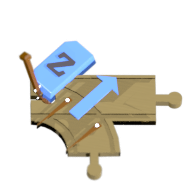
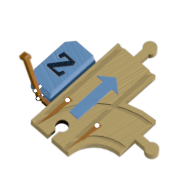
zzz

Changed region(s): [[0.163, 0.2174, 1.0, 0.9783], [0.5163, 0.6793, 0.5435, 0.7065], [0.3533, 0.5435, 0.3804, 0.5707]]

diff --git a/www/js/train.js b/www/js/train.js
@@ -1882,6 +1882,10 @@ $(document).ready(function(){
 		//console.log("drawSprite="+name); //kkk
         var cargoOffsetX = -37;
         var cargoOffsetY = -26;
+        var stationOffsetX = -53;
+        var stationOffsetY = -31;
+        var wyeOffsetX = -69;
+        var wyeOffsetY = -43;
 		switch (name) {
 			case "Captionblocks":
                 ctx.drawImage(imgCargoBlocks[2][12], cargoOffsetX, cargoOffsetY,imgTrackWidth*0.8,imgTrackWidth*0.8);
@@ -1932,73 +1936,73 @@ $(document).ready(function(){
 				ctx.drawImage(imgCargoBinary[value][5], cargoOffsetX, cargoOffsetY,imgTrackWidth*0.8,imgTrackWidth*0.8);
 				break;
 			case "Captionnone":
-				ctx.drawImage(imgCaptionNone, 0, -11,imgTrackWidth*0.8,imgTrackWidth*0.8);
+				ctx.drawImage(imgCaptionNone, stationOffsetX+37, stationOffsetY+9,imgTrackWidth*0.45,imgTrackWidth*0.45);
 				break;
 			case "Captionalternate":
-				ctx.drawImage(imgCaptionAlternate, 0, -11,imgTrackWidth*0.8,imgTrackWidth*0.8);
+				ctx.drawImage(imgCaptionAlternate, wyeOffsetX, wyeOffsetY,imgTrackWidth,imgTrackWidth);
 				break;
 			case "Captionrandom":
-				ctx.drawImage(imgCaptionRandom, 0, -11,imgTrackWidth*0.8,imgTrackWidth*0.8);
+				ctx.drawImage(imgCaptionRandom, wyeOffsetX, wyeOffsetY,imgTrackWidth,imgTrackWidth);
 				break;
 			case "Captioncomparegreater":
-				ctx.drawImage(imgCaptionGreater, 0, -11,imgTrackWidth*0.8,imgTrackWidth*0.8);
+				ctx.drawImage(imgCaptionGreater, wyeOffsetX, wyeOffsetY,imgTrackWidth,imgTrackWidth);
 				break;
 			case "Captionlazy":
-				ctx.drawImage(imgCaptionLazy, 0, -11,imgTrackWidth*0.8,imgTrackWidth*0.8);
+				ctx.drawImage(imgCaptionLazy, wyeOffsetX, wyeOffsetY,imgTrackWidth,imgTrackWidth);
 				break;
 			case "Captioncompareless":
-				ctx.drawImage(imgCaptionLesser, 0, -11,imgTrackWidth*0.8,imgTrackWidth*0.8);
+				ctx.drawImage(imgCaptionLesser, wyeOffsetX, wyeOffsetY,imgTrackWidth,imgTrackWidth);
 				break;
 			case "Captionprompt":
-				ctx.drawImage(imgCaptionPrompt, 0, -11,imgTrackWidth*0.8,imgTrackWidth*0.8);
+				ctx.drawImage(imgCaptionPrompt, wyeOffsetX, wyeOffsetY,imgTrackWidth,imgTrackWidth);
 				break;
 			case "Captionsprung":
-				ctx.drawImage(imgCaptionSprung, 0, -11,imgTrackWidth*0.8,imgTrackWidth*0.8);
+				ctx.drawImage(imgCaptionSprung, wyeOffsetX, wyeOffsetY,imgTrackWidth,imgTrackWidth);
 				break;
 			case "Captionadd":
-				ctx.drawImage(imgCaptionAdd, 0, -11,imgTrackWidth*0.8,imgTrackWidth*0.8);
+				ctx.drawImage(imgCaptionAdd, stationOffsetX, stationOffsetY,imgTrackWidth*0.8,imgTrackWidth*0.8);
 				break;
 			case "Captioncatapult":
-				ctx.drawImage(imgCaptionCatapult, 0, -11,imgTrackWidth*0.8,imgTrackWidth*0.8);
+				ctx.drawImage(imgCaptionCatapult, stationOffsetX, stationOffsetY,imgTrackWidth*0.8,imgTrackWidth*0.8);
 				break;
 			case "Captiondecrement":
-				ctx.drawImage(imgCaptionDecrement, 0, -11,imgTrackWidth*0.8,imgTrackWidth*0.8);
+				ctx.drawImage(imgCaptionDecrement, stationOffsetX, stationOffsetY,imgTrackWidth*0.8,imgTrackWidth*0.8);
 				break;
 			case "Captiondivide":
-				ctx.drawImage(imgCaptionDivide, 0, -11,imgTrackWidth*0.8,imgTrackWidth*0.8);
+				ctx.drawImage(imgCaptionDivide, stationOffsetX, stationOffsetY,imgTrackWidth*0.8,imgTrackWidth*0.8);
 				break;
 			case "Captiondump":
-				ctx.drawImage(imgCaptionDump, 0, -11,imgTrackWidth*0.8,imgTrackWidth*0.8);
+				ctx.drawImage(imgCaptionDump, stationOffsetX, stationOffsetY,imgTrackWidth*0.8,imgTrackWidth*0.8);
 				break;
 			case "Captionincrement":
-				ctx.drawImage(imgCaptionIncrement, 0, -11,imgTrackWidth*0.8,imgTrackWidth*0.8);
+				ctx.drawImage(imgCaptionIncrement, stationOffsetX, stationOffsetY,imgTrackWidth*0.8,imgTrackWidth*0.8);
 				break;
 			case "Captionmultiply":
-				ctx.drawImage(imgCaptionMultiply, 0, -11,imgTrackWidth*0.8,imgTrackWidth*0.8);
+				ctx.drawImage(imgCaptionMultiply, stationOffsetX, stationOffsetY,imgTrackWidth*0.8,imgTrackWidth*0.8);
 				break;
 			case "Captionhome":
-				ctx.drawImage(imgCaptionHome, 0, -11,imgTrackWidth*0.8,imgTrackWidth*0.8);
+				ctx.drawImage(imgCaptionHome, stationOffsetX, stationOffsetY,imgTrackWidth*0.8,imgTrackWidth*0.8);
 				break;
 			case "Captionredtunnel":
-				ctx.drawImage(imgCaptionRedTunnel, -4, -5,imgTrackWidth*0.8,imgTrackWidth*0.8);
+				ctx.drawImage(imgCaptionRedTunnel, stationOffsetX+31, stationOffsetY+18,imgTrackWidth*0.45,imgTrackWidth*0.45);
 				break;
 			case "Captiongreentunnel":
-				ctx.drawImage(imgCaptionGreenTunnel, -4, -4,imgTrackWidth*0.8,imgTrackWidth*0.8);
+				ctx.drawImage(imgCaptionGreenTunnel, stationOffsetX+31, stationOffsetY+18,imgTrackWidth*0.45,imgTrackWidth*0.45);
 				break;
 			case "Captionbluetunnel":
-				ctx.drawImage(imgCaptionBlueTunnel, -4, -5,imgTrackWidth*0.8,imgTrackWidth*0.8);
+				ctx.drawImage(imgCaptionBlueTunnel, stationOffsetX+31, stationOffsetY+18,imgTrackWidth*0.45,imgTrackWidth*0.45);
 				break;
 			case "Captionpickdrop":
-				ctx.drawImage(imgCaptionPickDrop, 0, -11,imgTrackWidth*0.8,imgTrackWidth*0.8);
+				ctx.drawImage(imgCaptionPickDrop, stationOffsetX, stationOffsetY,imgTrackWidth*0.8,imgTrackWidth*0.8);
 				break;
 			case "Captionslingshot":
-				ctx.drawImage(imgCaptionSlingshot, 0, -11,imgTrackWidth*0.8,imgTrackWidth*0.8);
+				ctx.drawImage(imgCaptionSlingshot, stationOffsetX, stationOffsetY,imgTrackWidth*0.8,imgTrackWidth*0.8);
 				break;
 			case "Captionsubtract":
-				ctx.drawImage(imgCaptionSubtract, 0, -11,imgTrackWidth*0.8,imgTrackWidth*0.8);
+				ctx.drawImage(imgCaptionSubtract, stationOffsetX, stationOffsetY,imgTrackWidth*0.8,imgTrackWidth*0.8);
 				break;
 			case "Captionsupply":
-				ctx.drawImage(imgCaptionSupply, 0, -11,imgTrackWidth*0.8,imgTrackWidth*0.8);
+				ctx.drawImage(imgCaptionSupply, stationOffsetX, stationOffsetY,imgTrackWidth*0.8,imgTrackWidth*0.8);
 				break;
 			case "track90":
 				ctx.drawImage(imgTrack90[ori], -imgTrackWidth/2, -imgTrackWidth/2,imgTrackWidth,imgTrackWidth);
